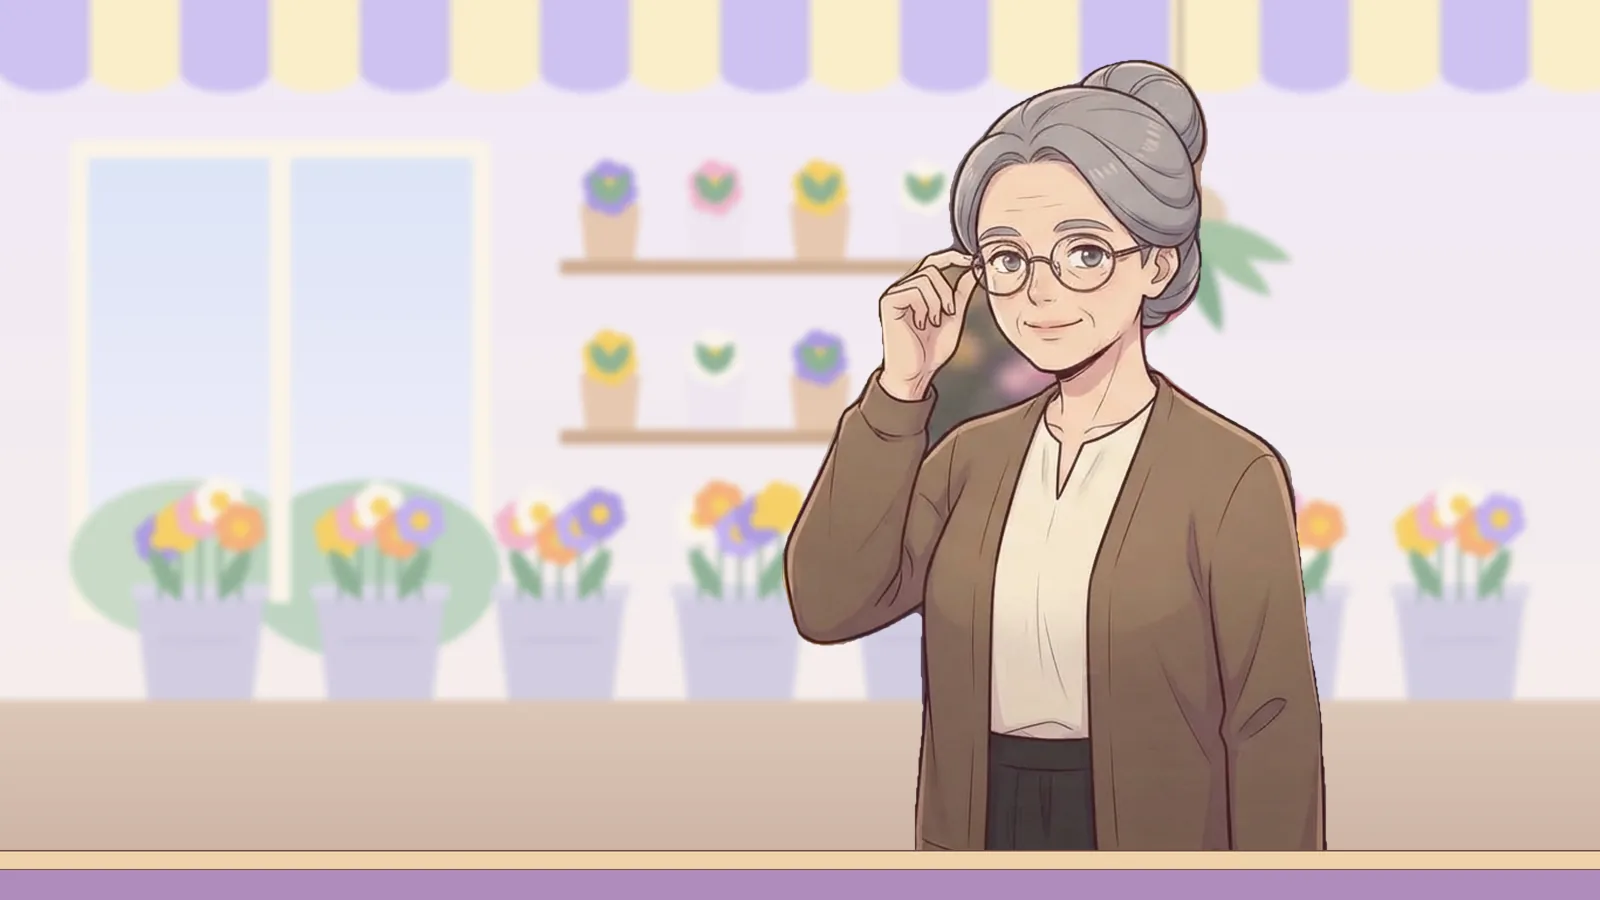
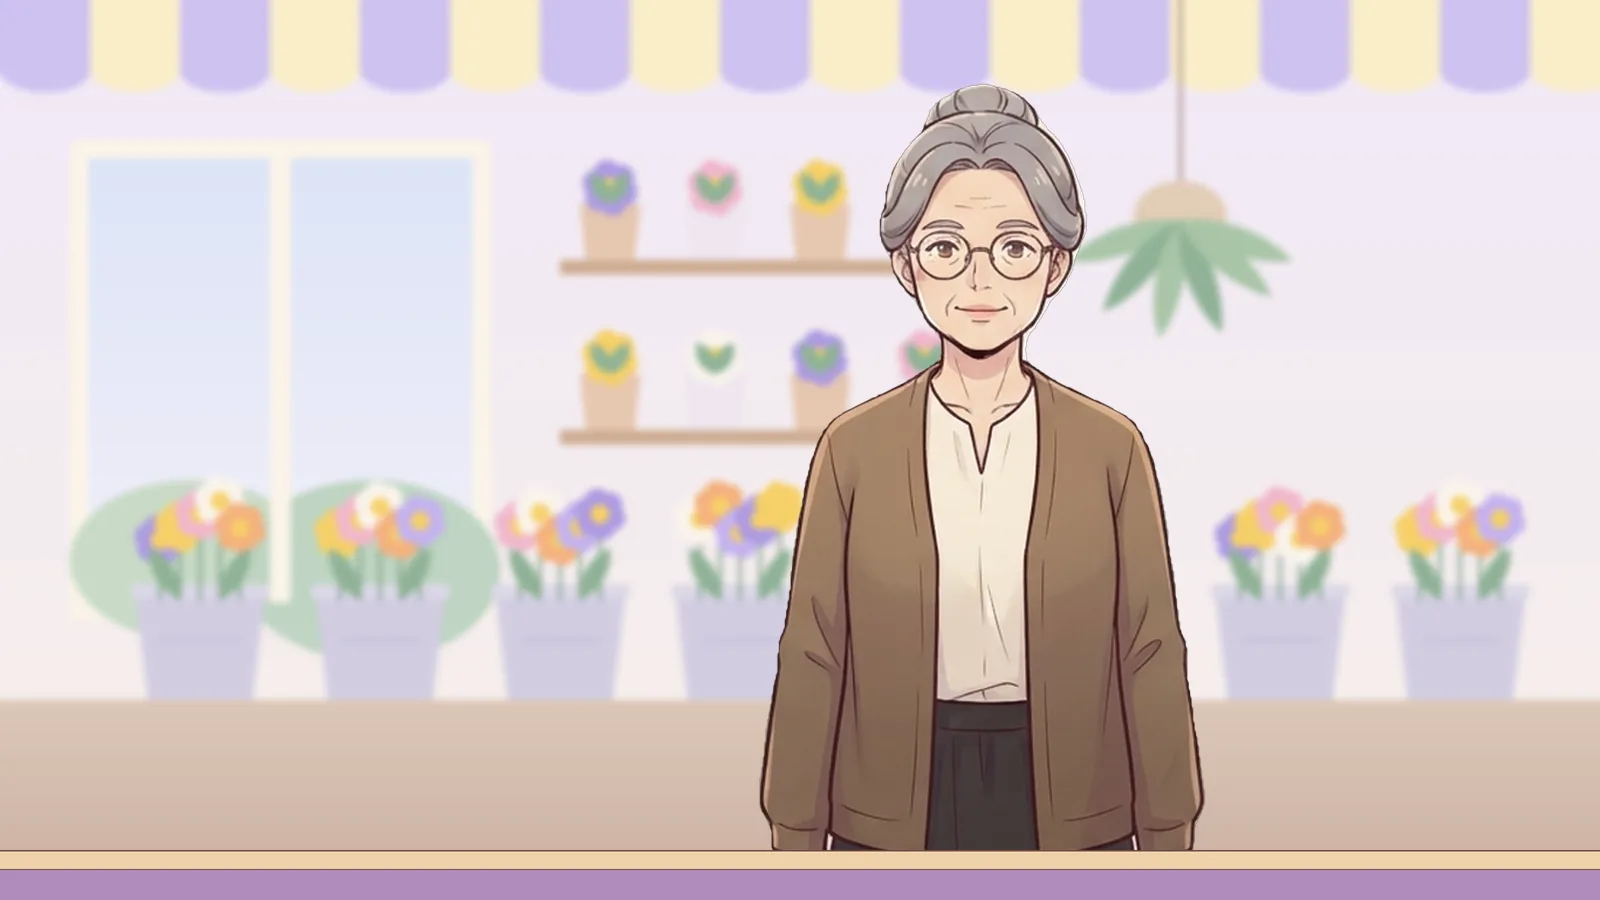
Sua anh Unit 1 theo review: hanh-wear tu bang nhan vat, Ba ay, kb/focus giu tron mat, ke hoa

Changed region(s): [[0.4688, 0.0622, 0.8438, 0.9644]]

diff --git a/data/l01-anim.js b/data/l01-anim.js
@@ -11,32 +11,32 @@ window.BS_ANIMS.l01 = {
       en: "He is pouring water into a cup.", vi: "Anh ấy đang rót nước vào cốc.",
       pieces: [["He", ""], [" is", "be"], [" pour", ""], ["ing", "ing"], [" water into a cup.", ""]],
       note_vi: "pour → pouring: đang rót",
-      kb: { from: [0.55, 0.45, 1.0], to: [0.62, 0.6, 1.25] }, focus: { x: 0.62, y: 0.77, r: 0.1, at: 2.5, label_vi: "đang rót" } },
+      kb: { from: [0.5, 0.5, 1.0], to: [0.53, 0.5, 1.07] }, focus: { x: 0.62, y: 0.76, r: 0.09, at: 2.5, label_vi: "đang rót" } },
     { id: "wipe", img: "nam-wipe", dur: 9, alt_vi: "Người đàn ông đặt hai tay lên chiếc khăn trắng và lau mặt quầy.",
       en: "He is wiping the counter.", vi: "Anh ấy đang lau quầy.",
       pieces: [["He", ""], [" is", "be"], [" wip", ""], ["ing", "ing"], [" the counter.", ""]],
       note_vi: "wipe → wiping: bỏ e rồi thêm ing (đang lau)",
-      kb: { from: [0.55, 0.45, 1.0], to: [0.6, 0.6, 1.25] }, focus: { x: 0.61, y: 0.87, r: 0.11, at: 2.5, label_vi: "đang lau" } },
+      kb: { from: [0.5, 0.5, 1.0], to: [0.5, 0.5, 1.02] }, focus: { x: 0.61, y: 0.86, r: 0.07, at: 2.5, label_vi: "đang lau" } },
     { id: "look", img: "mai-look", dur: 9, alt_vi: "Một cô gái đứng trong văn phòng, hai tay cầm tờ tài liệu và nhìn xuống đọc.",
       en: "She is looking at a document.", vi: "Cô ấy đang nhìn vào một tài liệu.",
       pieces: [["She", ""], [" is", "be"], [" look", ""], ["ing", "ing"], [" at a document.", ""]],
       note_vi: "look at → looking at: thêm ing sau động từ, giữ nguyên at (đang nhìn vào)",
-      kb: { from: [0.5, 0.45, 1.0], to: [0.38, 0.6, 1.3] }, focus: { x: 0.35, y: 0.83, r: 0.12, at: 2.5, label_vi: "đang nhìn" } },
+      kb: { from: [0.5, 0.5, 1.0], to: [0.44, 0.5, 1.14] }, focus: { x: 0.33, y: 0.7, r: 0.12, at: 2.5, label_vi: "đang nhìn" } },
     { id: "type", img: "mai-type", dur: 9, alt_vi: "Cô gái ngồi bên bàn, hai tay đặt trên bàn phím máy tính xách tay.",
       en: "She is typing on a laptop.", vi: "Cô ấy đang gõ trên máy tính xách tay.",
       pieces: [["She", ""], [" is", "be"], [" typ", ""], ["ing", "ing"], [" on a laptop.", ""]],
       note_vi: "type → typing: bỏ e rồi thêm ing (đang gõ)",
-      kb: { from: [0.5, 0.45, 1.0], to: [0.5, 0.6, 1.3] }, focus: { x: 0.5, y: 0.84, r: 0.11, at: 2.5, label_vi: "đang gõ" } },
-    { id: "wear", img: "hanh-wear", dur: 9, alt_vi: "Một bà tóc bạc đeo cặp kính tròn, một tay chỉnh kính và mỉm cười.",
-      en: "She is wearing glasses.", vi: "Cô ấy đang đeo kính.",
+      kb: { from: [0.5, 0.5, 1.0], to: [0.48, 0.5, 1.05] }, focus: { x: 0.5, y: 0.84, r: 0.07, at: 2.5, label_vi: "đang gõ" } },
+    { id: "wear", img: "hanh-wear", dur: 9, alt_vi: "Một bà tóc bạc đứng thẳng, đeo cặp kính tròn, hai tay buông xuôi và mỉm cười.",
+      en: "She is wearing glasses.", vi: "Bà ấy đang đeo kính.",
       pieces: [["She", ""], [" is", "be"], [" wear", ""], ["ing", "ing"], [" glasses.", ""]],
       note_vi: "wear → wearing: đang đeo/mặc (trạng thái đang có trên người), khác putting on = đang mặc vào (hành động)",
-      kb: { from: [0.55, 0.5, 1.0], to: [0.64, 0.4, 1.35] }, focus: { x: 0.65, y: 0.3, r: 0.13, at: 2.5, label_vi: "đang đeo" } },
-    { id: "point", img: "hanh-point", dur: 9, alt_vi: "Một bà tóc bạc giơ một tay, ngón trỏ chỉ vào bó hoa trên giá bên cạnh.",
-      en: "She is pointing at the flowers.", vi: "Cô ấy đang chỉ vào những bông hoa.",
+      kb: { from: [0.5, 0.5, 1.0], to: [0.61, 0.36, 1.2] }, focus: { x: 0.61, y: 0.285, r: 0.08, at: 2.5, label_vi: "đang đeo" } },
+    { id: "point", img: "hanh-point", dur: 9, alt_vi: "Một bà tóc bạc giơ một tay, ngón trỏ chỉ vào những chậu hoa trên giá bên cạnh.",
+      en: "She is pointing at the flowers.", vi: "Bà ấy đang chỉ vào những bông hoa.",
       pieces: [["She", ""], [" is", "be"], [" point", ""], ["ing", "ing"], [" at the flowers.", ""]],
       note_vi: "point at → pointing at: thêm ing sau động từ, giữ nguyên at (đang chỉ vào)",
-      kb: { from: [0.5, 0.5, 1.0], to: [0.68, 0.5, 1.3] }, focus: { x: 0.71, y: 0.53, r: 0.13, at: 2.5, label_vi: "đang chỉ" } }
+      kb: { from: [0.5, 0.5, 1.0], to: [0.62, 0.42, 1.2] }, focus: { x: 0.74, y: 0.53, r: 0.13, at: 2.5, label_vi: "đang chỉ" } }
   ],
   outro: { img: "duo-cafe", dur: 2, alt_vi: "Người pha chế đưa chiếc cốc cho một cô gái đứng bên quầy cà phê, cả hai cùng mỉm cười.", title_vi: "Tổng kết", segs: [
     ["Ghi nhớ nhanh: tìm câu "], ["be", "be"], [" + động từ-"], ["ing", "ing"],

diff --git a/tools/compose-scenes.py b/tools/compose-scenes.py
@@ -141,7 +141,7 @@ def bucket(cv, x, y, w, h, col=(201, 197, 222), ol=None):
     cv.line([(x - w * .3, y - h * .55), (x + w * .3, y - h * .55)], fill=mix(col, (120, 110, 170), .4) + (255,), w=2)
 
 
-def bouquet(cv, cx, base_y, spread, ol=None, seed=0):
+def bouquet(cv, cx, base_y, spread, ol=None):
     """Flowers fanning up from (cx, base_y): stems, leaves, heads."""
     cols = [(155, 134, 224), YEL, (240, 169, 196), (251, 246, 236), (244, 162, 97), (183, 163, 240)]
     heads = [(-0.70, -0.95, 0), (-0.30, -1.15, 1), (0.15, -1.25, 2), (0.62, -1.02, 3), (0.92, -0.72, 3),
@@ -458,28 +458,28 @@ def laptop(cv, t0):
 
 def flower_shelf(cv, t):
     """Wooden flower shelf where Hanh's finger points, with a bouquet."""
-    x0, x1 = 985, 1376 + 100
+    x0, x1 = 1055, 1376 + 160
     top, bot = 230, 660
     cv.poly([t(x0 - 24, top), t(x0, top), t(x0, bot), t(x0 - 24, bot)], fill=WOOD_F + (255,), ol=OL, w=1.6)
     for yy in (top + 24, 380, 540, 624):
         cv.poly([t(x0 - 24, yy), t(x1, yy), t(x1, yy + 22), t(x0 - 24, yy + 22)], fill=WOOD_T + (255,), ol=OL, w=1.6)
     # upper shelf: pots
     for k in range(3):
-        px = 1030 + k * 120
+        px = 1100 + k * 120
         cv.poly([t(px - 26, 232), t(px + 26, 232), t(px + 20, 252), t(px - 20, 252)], fill=(236, 228, 240, 255), ol=OL, w=1.3)
     for k in range(3):
-        px = 1070 + k * 130
+        px = 1140 + k * 130
         x, y = t(px, 380)
         cv.poly([(x - 30, y), (x + 30, y), (x + 24, y - 44), (x - 24, y - 44)], fill=((226, 190, 160) if k % 2 else (230, 224, 244)) + (255,), ol=OL, w=1.3)
         flower(cv, x, y - 58, 22, [(240, 169, 196), YEL, (155, 134, 224)][k], ol=OL)
     # middle shelf: big bouquet in a wrapped bucket, right where the finger points
-    bx, by = t(1135, 488)
-    bouquet(cv, bx, by, 190 * SC, ol=OL)
+    bx, by = t(1205, 488)
+    bouquet(cv, bx, by, 172 * SC, ol=OL)
     cv.poly([(bx - 64, by - 4), (bx + 64, by - 4), (bx + 44, by + 62), (bx - 44, by + 62)], fill=(201, 197, 222, 255), ol=OL, w=1.5)
     cv.rect(bx - 70, by - 10, bx + 70, by + 6, fill=(220, 216, 236, 255), ol=OL, w=1.5, r=3)
     # lower shelf: small buckets with flowers
     for k in range(3):
-        x, y = t(1060 + k * 130, 624)
+        x, y = t(1125 + k * 105, 624)
         for j in range(3):
             fx = x - 18 + j * 18
             cv.line([(fx, y - 40), (fx, y - 66 - 6 * ((k + j) % 2))], fill=GREEN3 + (255,), w=2.5)
